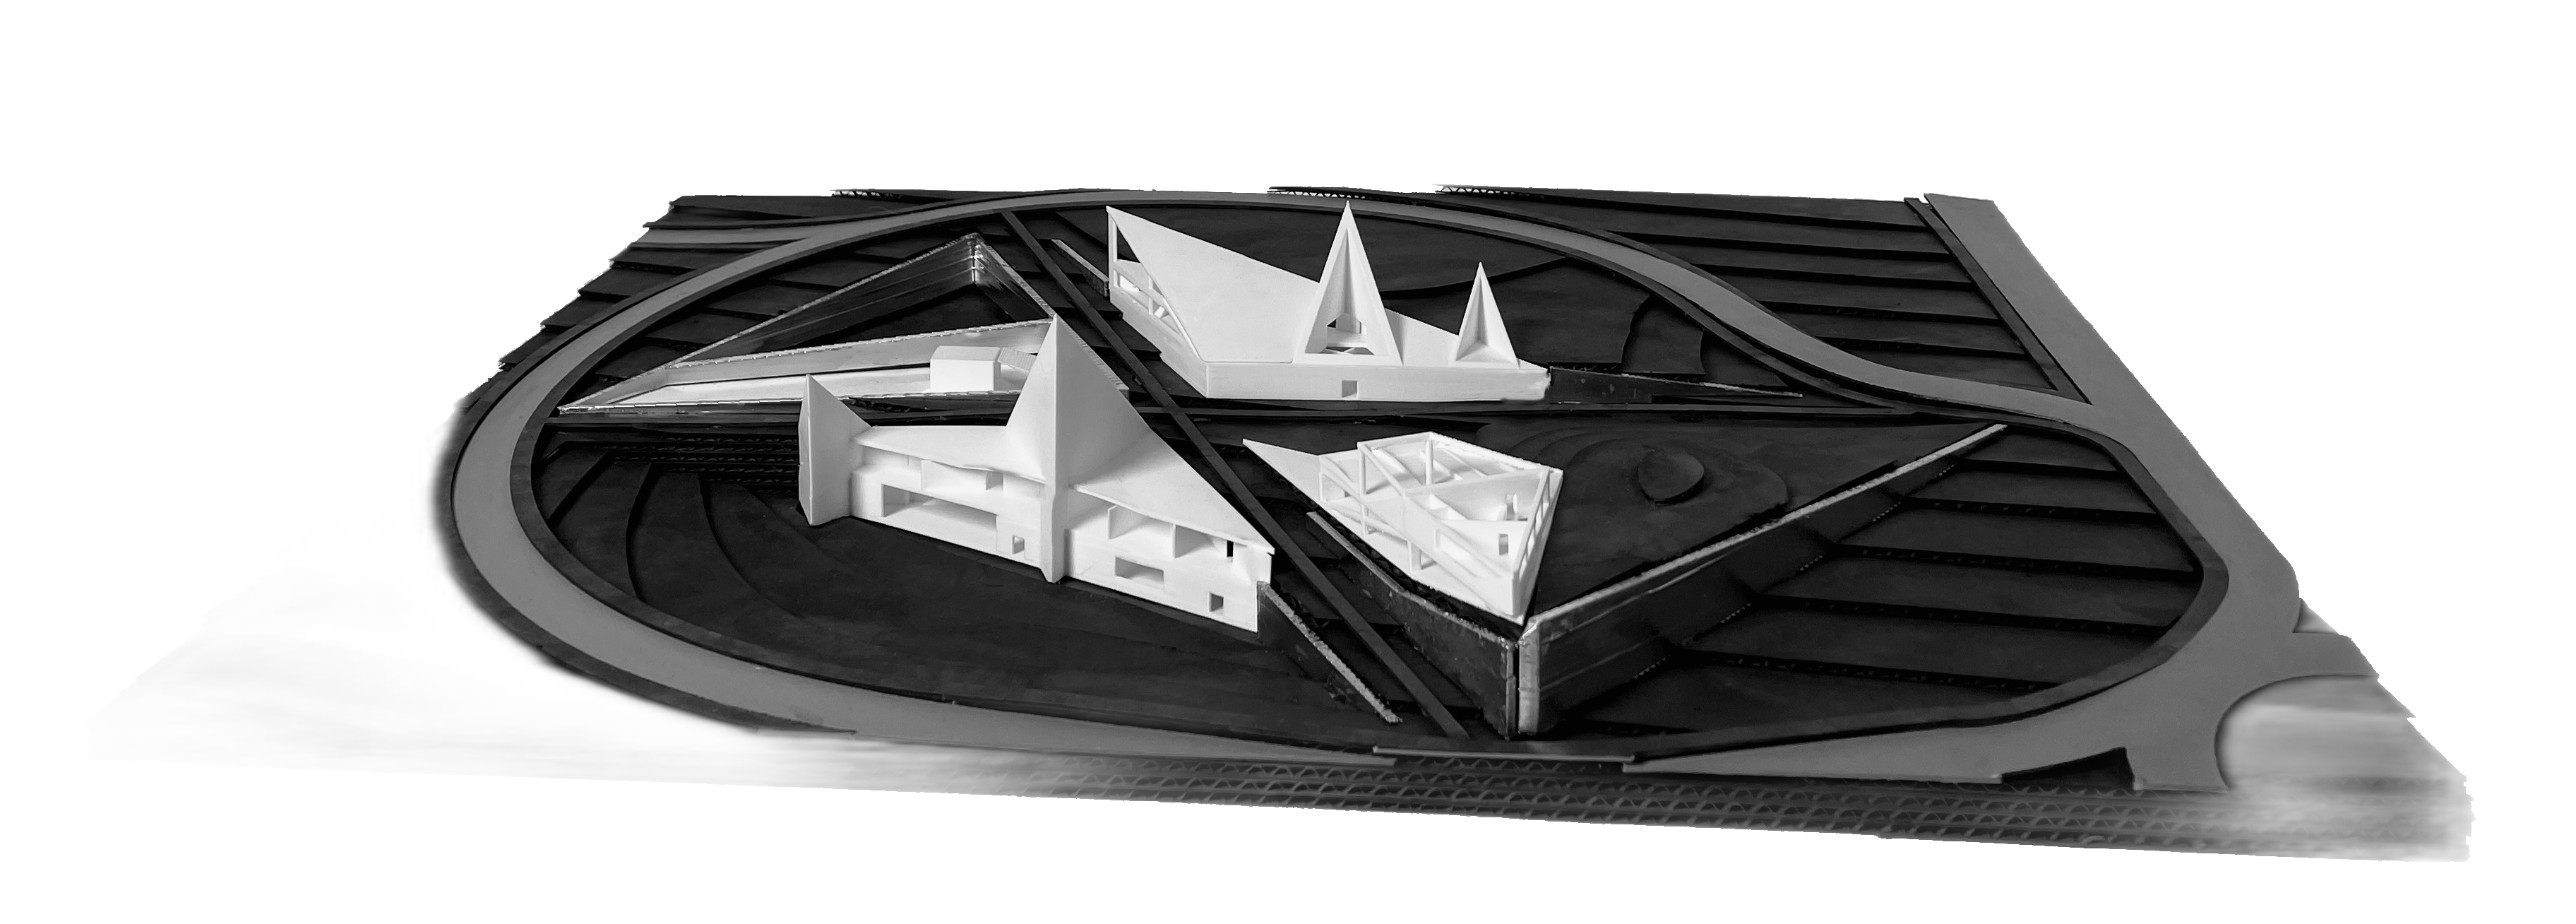
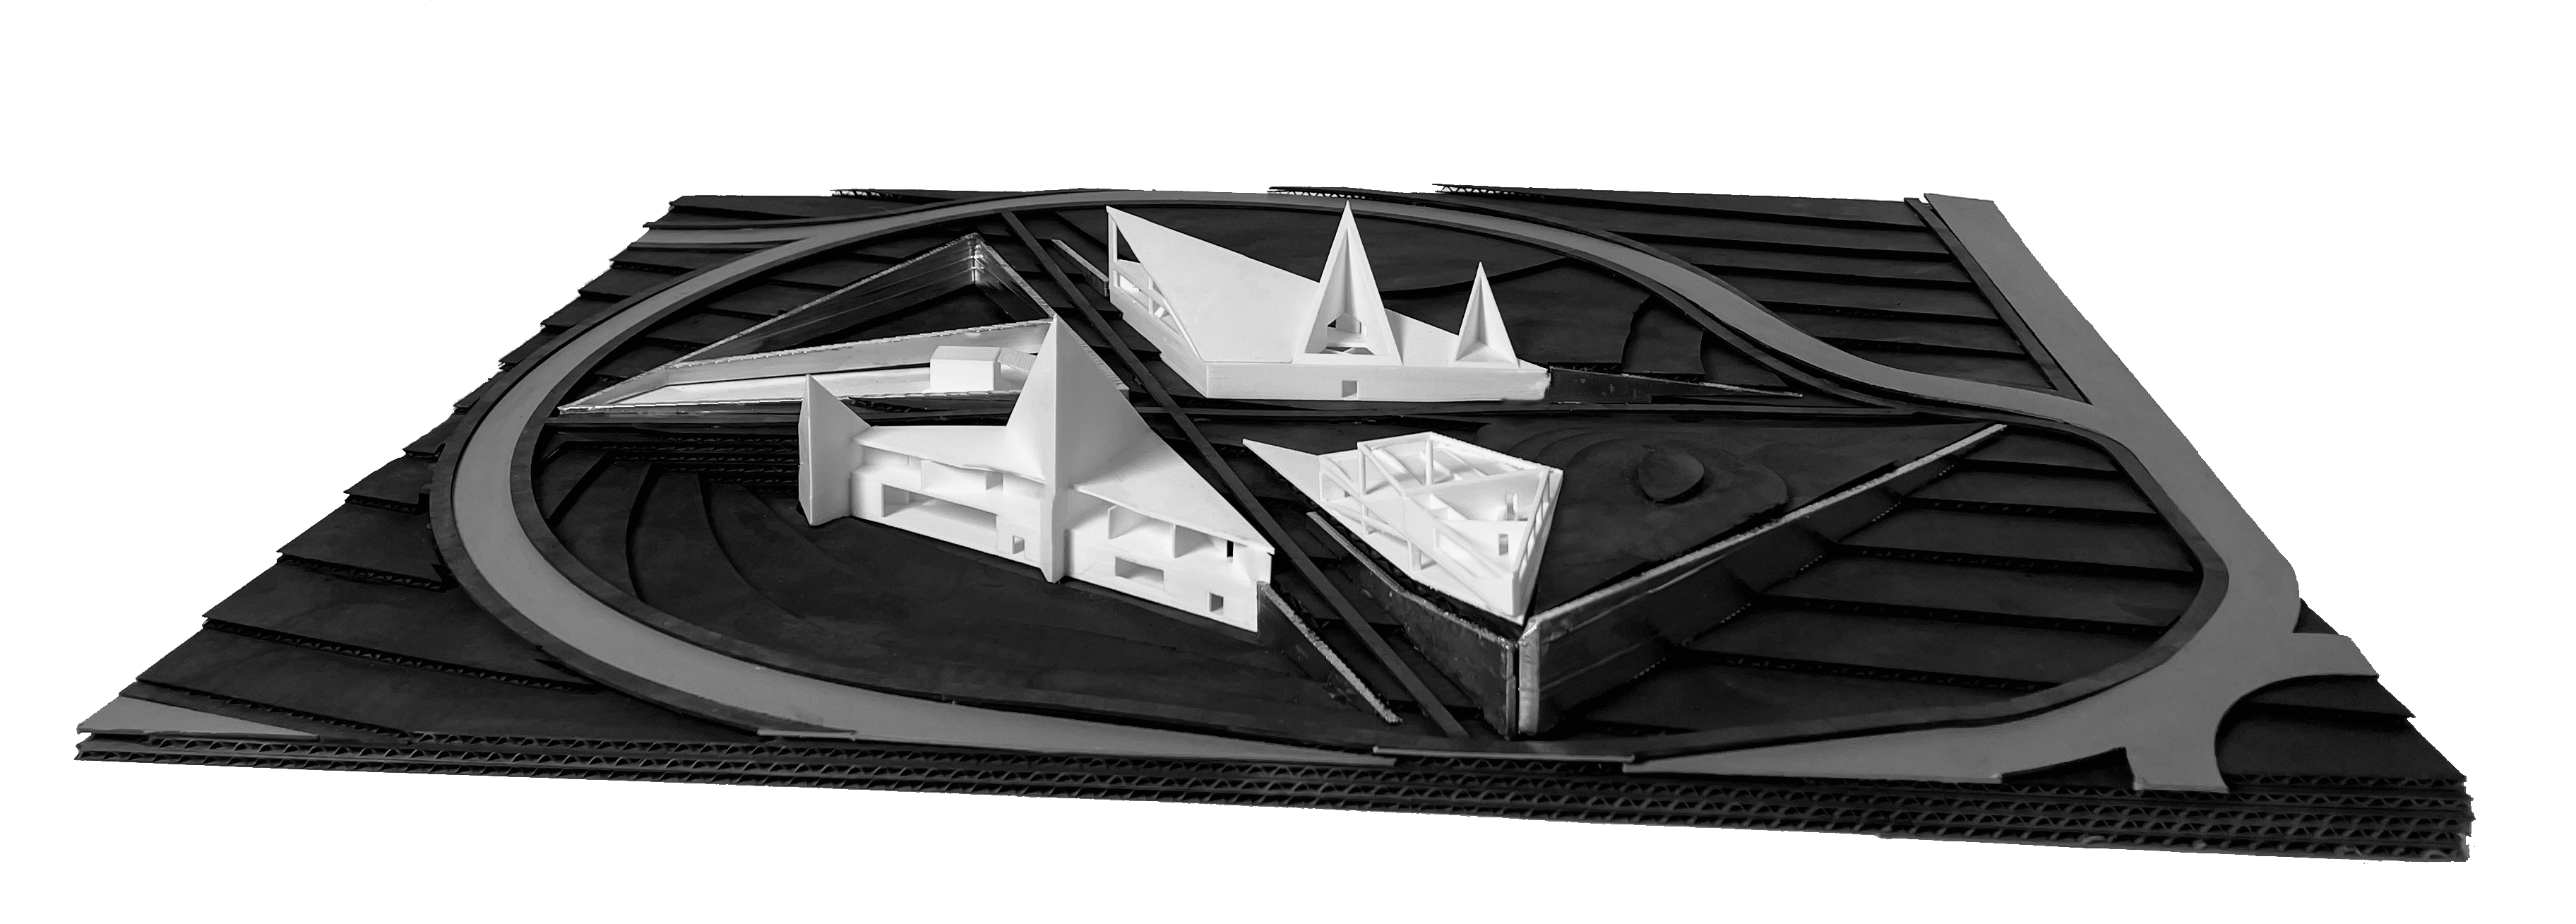
Show photo 01 transparent PNG, keep remaining model photos hidden

Changed region(s): [[0.0312, 0.4281, 0.9688, 0.948], [0.875, 0.6422, 0.9062, 0.7034], [0.25, 0.2141, 0.2812, 0.2446]]

diff --git a/triangulated-tectonic.html b/triangulated-tectonic.html
@@ -134,6 +134,9 @@
       height: auto;
       visibility: hidden;
     }
+    .model-gallery img:first-child {
+      visibility: visible;
+    }
     .model-gallery img:last-child {
       margin-top: -14vw;
     }